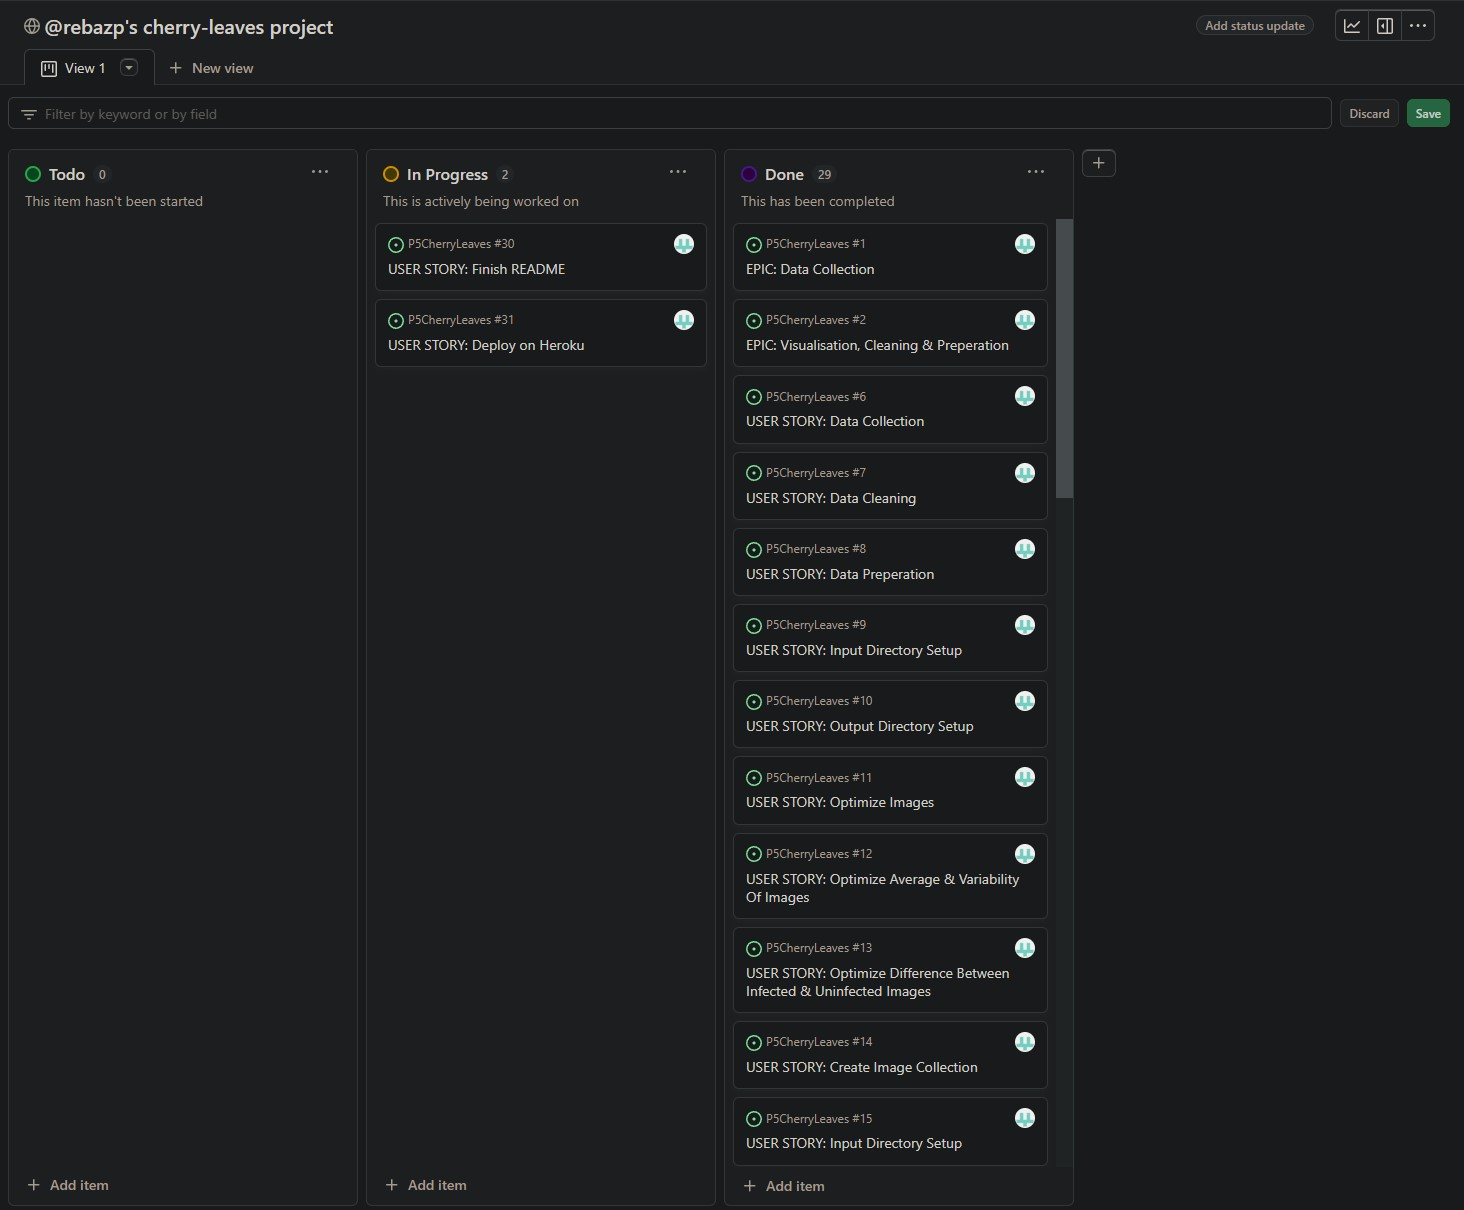
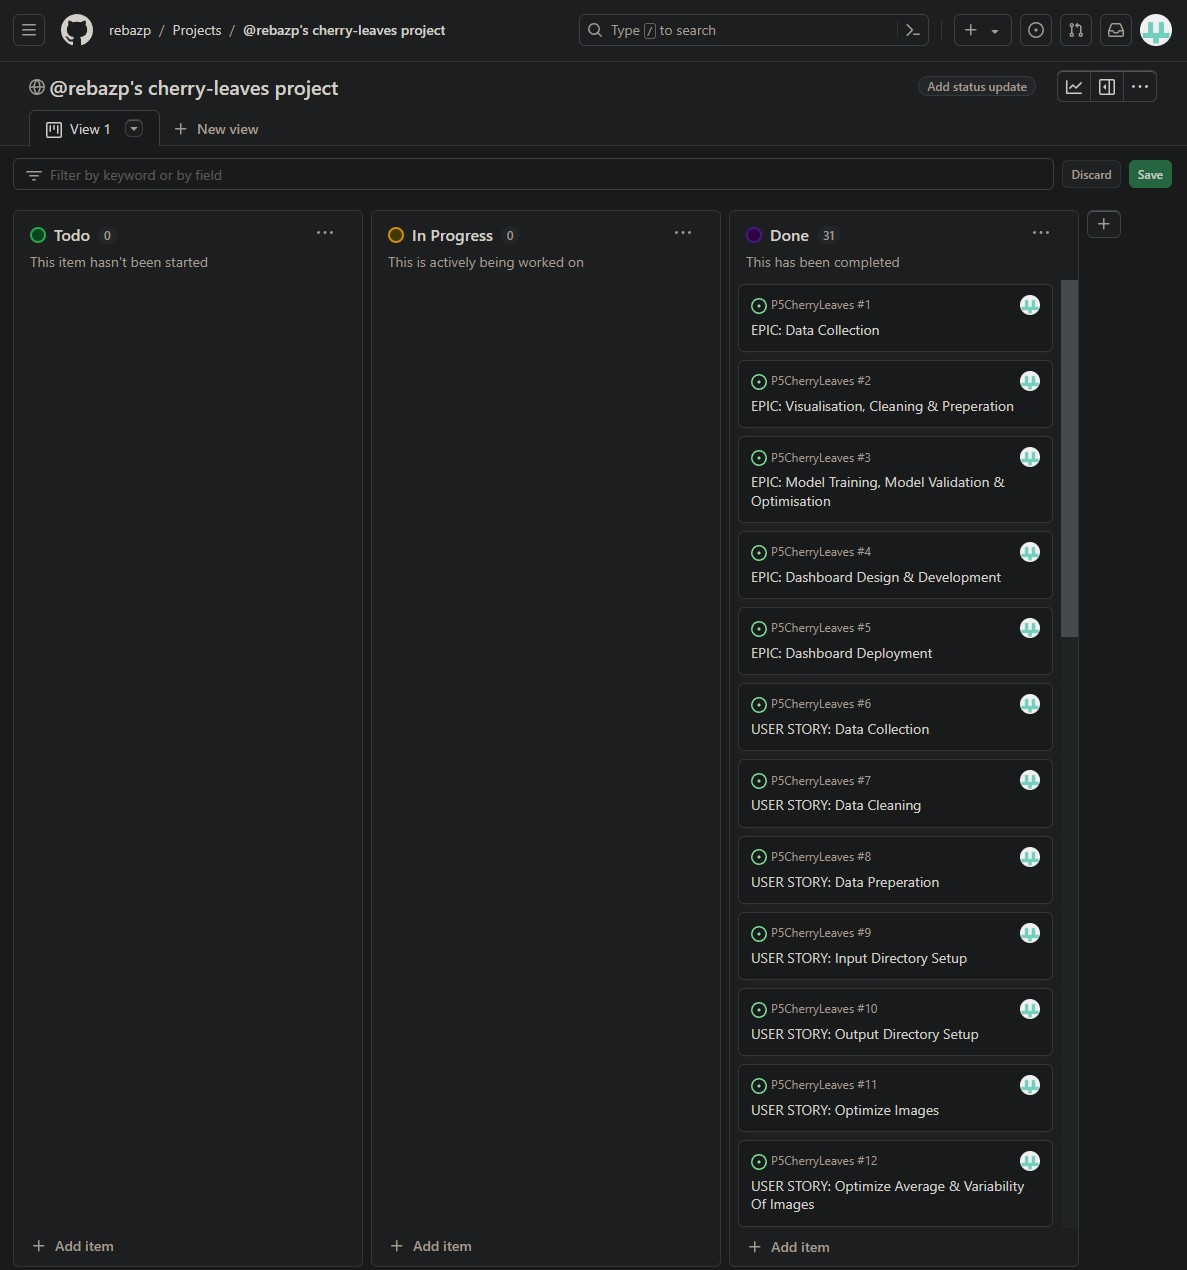
finish readme and change images

diff --git a/README.md b/README.md
@@ -172,7 +172,7 @@ CRISP-DM, an acronym for Cross-Industry Standard Process for Data Mining, is a w
 ![Kanban Main](images/projectboard.jpg)
 * The CRISP-DM process is segmented into sprints, with each sprint containing Epics derived from individual CRISP-DM tasks, which are then further subdivided into tasks. Each task progresses through stages such as To Do, In Progress, and Review status as part of the workflow, and includes comprehensive details.
 
-![Kanban Readme](images/projectreadme.jpg)
+![Kanban Readme](images/projectuserstory.jpg)
 
 ## Bugs
 * During the deployment to Heroku the project size was to big, around 550 MB while the limit on Heroku is 500 MB. To solve this I had to remove most of the images from the input folders to meet the Heroku requirements. I also had to make some changes to the .slugignore file to decompress the project.
@@ -184,6 +184,18 @@ CRISP-DM, an acronym for Cross-Industry Standard Process for Data Mining, is a w
 
 ## Testing
 * In this project, only manual testing has been conducted. The functionality of all aspects of the application has been verified on Streamlit and Heroku, and they operate as intended.
+
+| **Feature**       | **Expected Outcome**                                                       | **Testing Performed**                                            | **Result**                            | **Pass/Fail** |
+|:-----------------:|:--------------------------------------------------------------------------:|:----------------------------------------------------------------:|:-------------------------------------:|:-------------:|
+| Nav links         | Nav links should load the corresponding page                               | Click the nav links                                              | All links open the appropriate pages  | Pass          |
+| Links             | Links should load the appropriate content                                  | Click the kaggle link                                       | Link loads the kaggle mildew data page            | Pass          |
+| Show information checkboxes         | Checkboxes should display the appropriate information when clicked | Click the checkboxes                                                   | Displays the appropriate content           | Pass          |
+| Mildew detection page | User should be able to upload multiple images and each images should be displayed and should display weather the leaf is healthy or infected with a confidence percentage. Then there should be a summary at the bottom of all the images and their results.                                | Upload multiple images to mildew detector | All images are displayed with their results and the summary is displayed at the bottom | Pass          |
+| Upload image button | Clicking this button should allow the user to select an image from their pc                                | Click the upload image button | Loads a popup allowing user to select images from their pc | Pass          |
+| Download prediction link | Clicking this link should allow the user to download the prediction data into a csv file                                | Click the download prediction results link | Prediction data is downloaded as a csv | Pass          |
+| Add new images to mildew detection when there are already images  | User should be able to upload a new image while there are already images loaded                                 | Upload a new image while there are already images loaded | New image is displayed and results are added to the summary and the old images are retained  | Pass          |
+| Remove image "X" button             | This button should remove an image from the detector page and results from the summary                                  | Click the "X" button                                       | Image and results are removed     | Pass          |
+
 
 ### Project Summary
 * Entering the streamlit project your are welcomed to the project summary page containing a short summary of the project.
